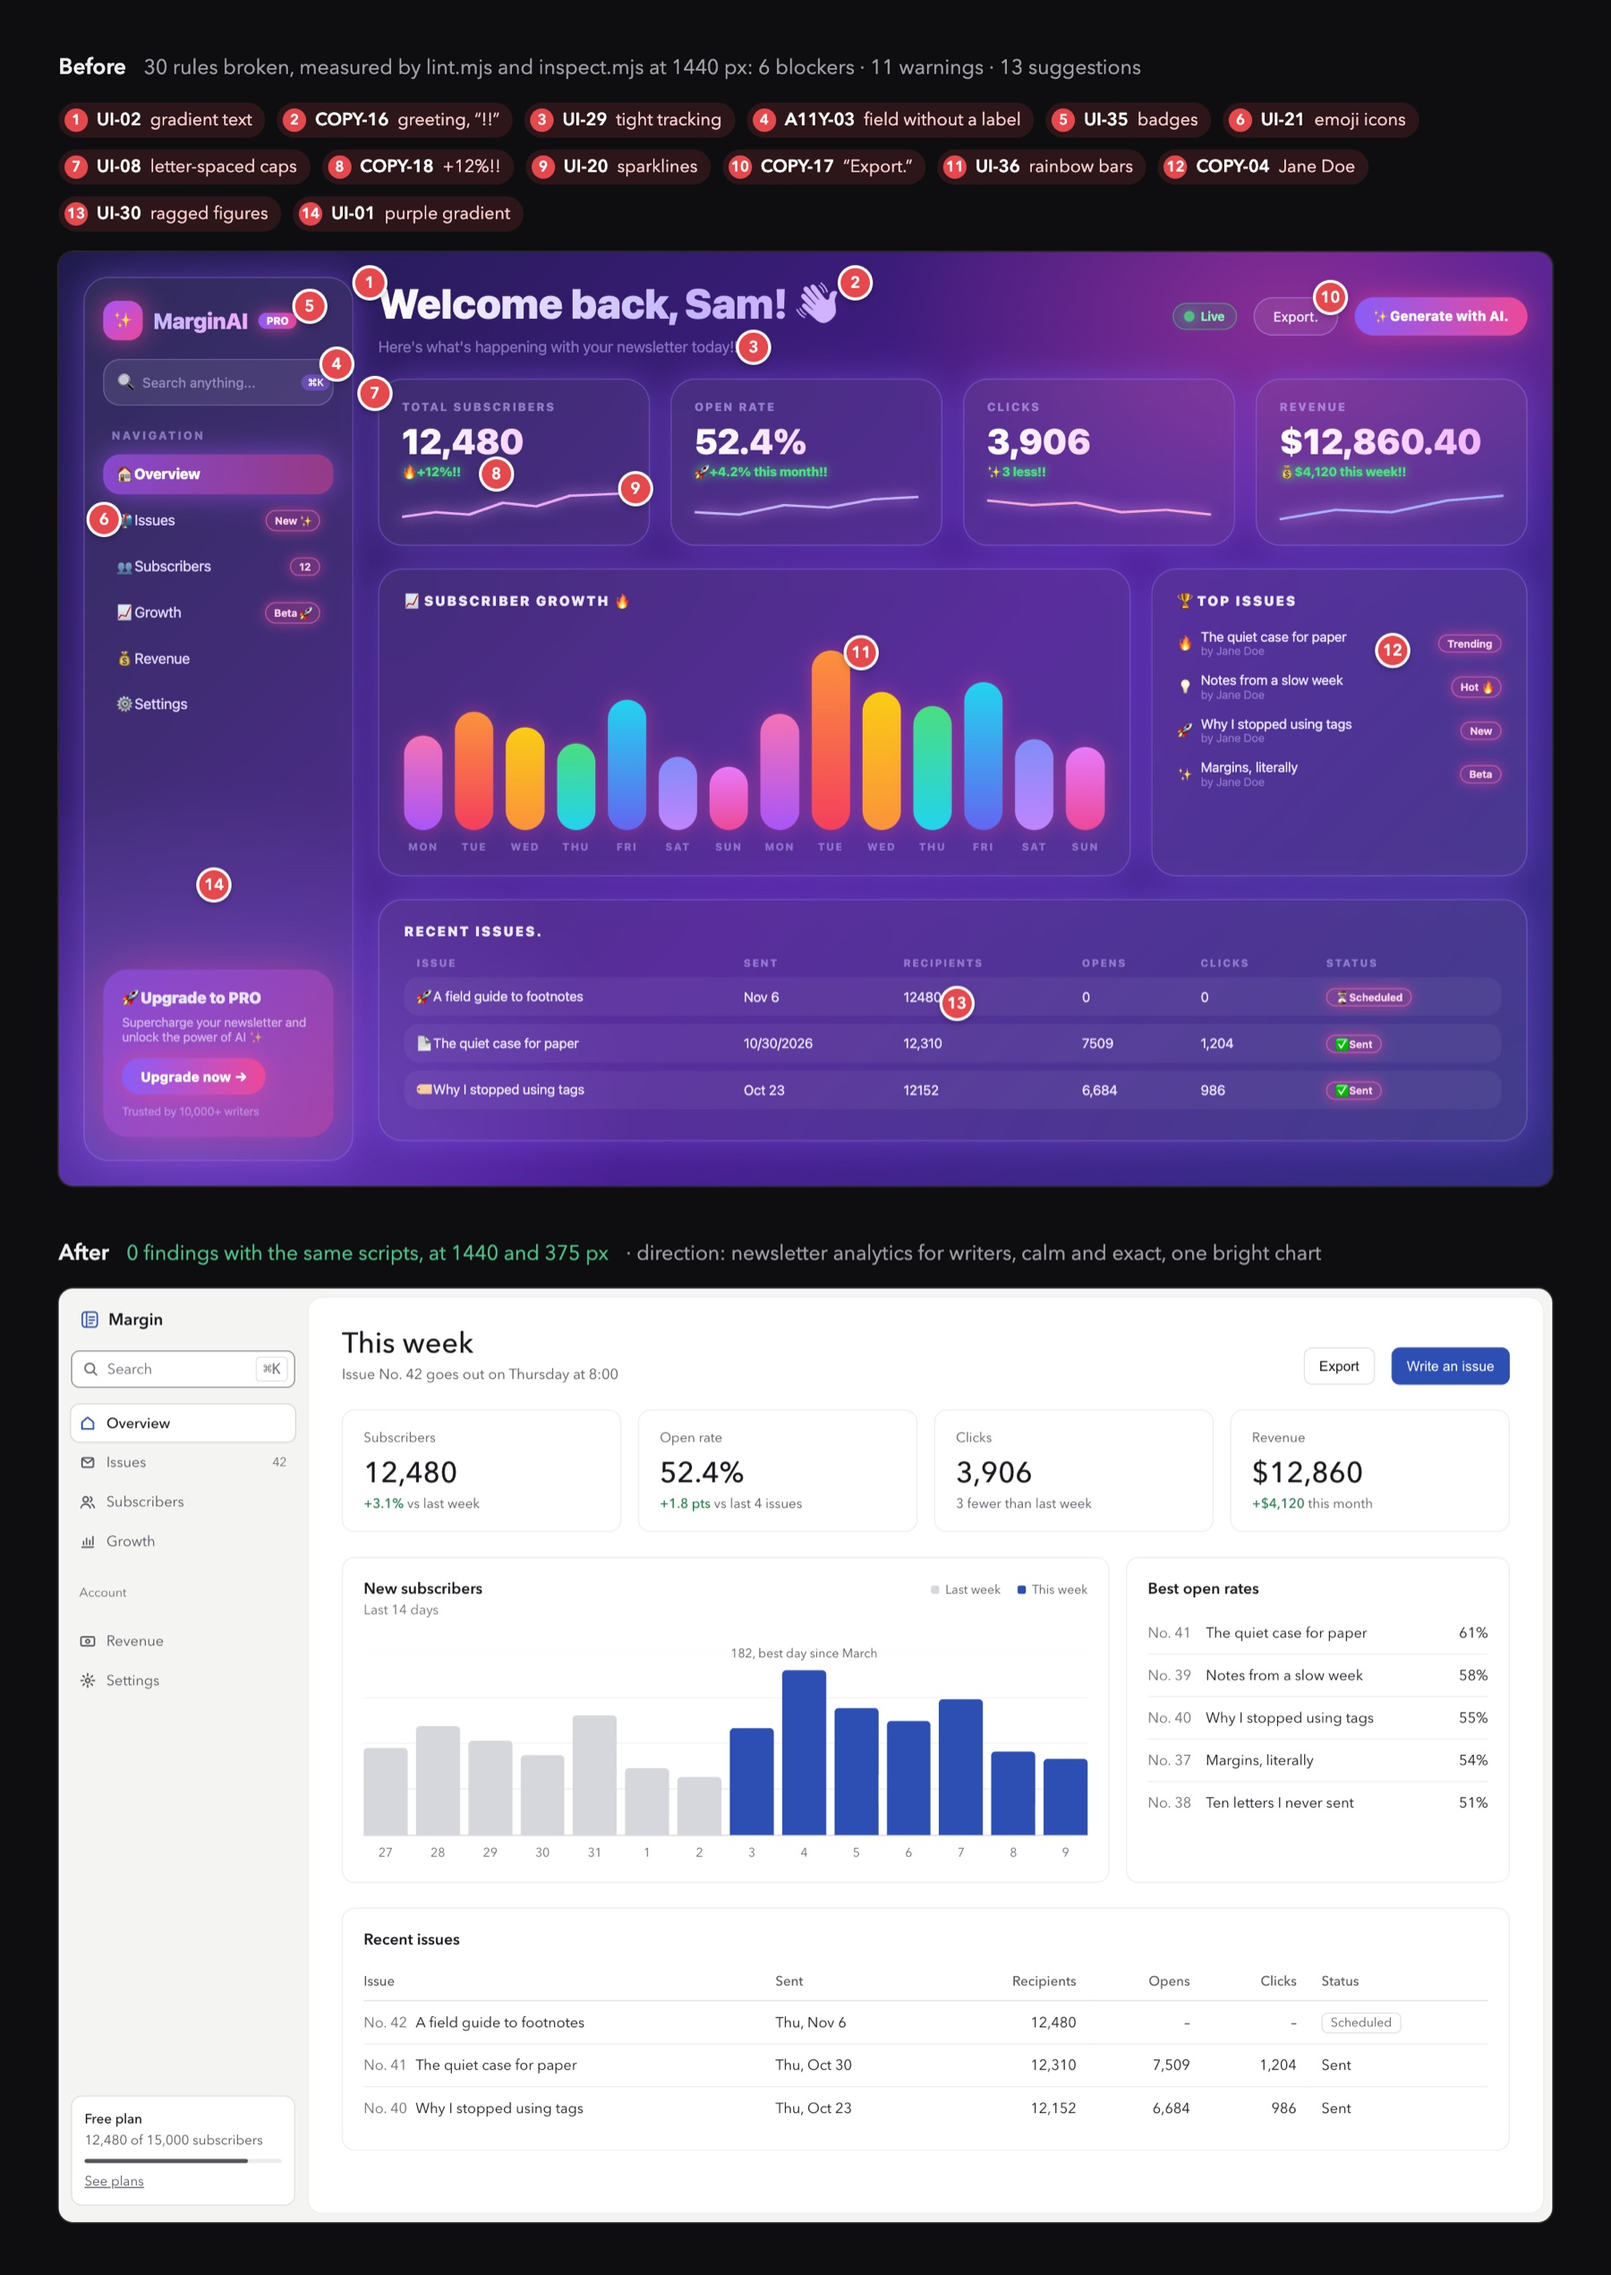
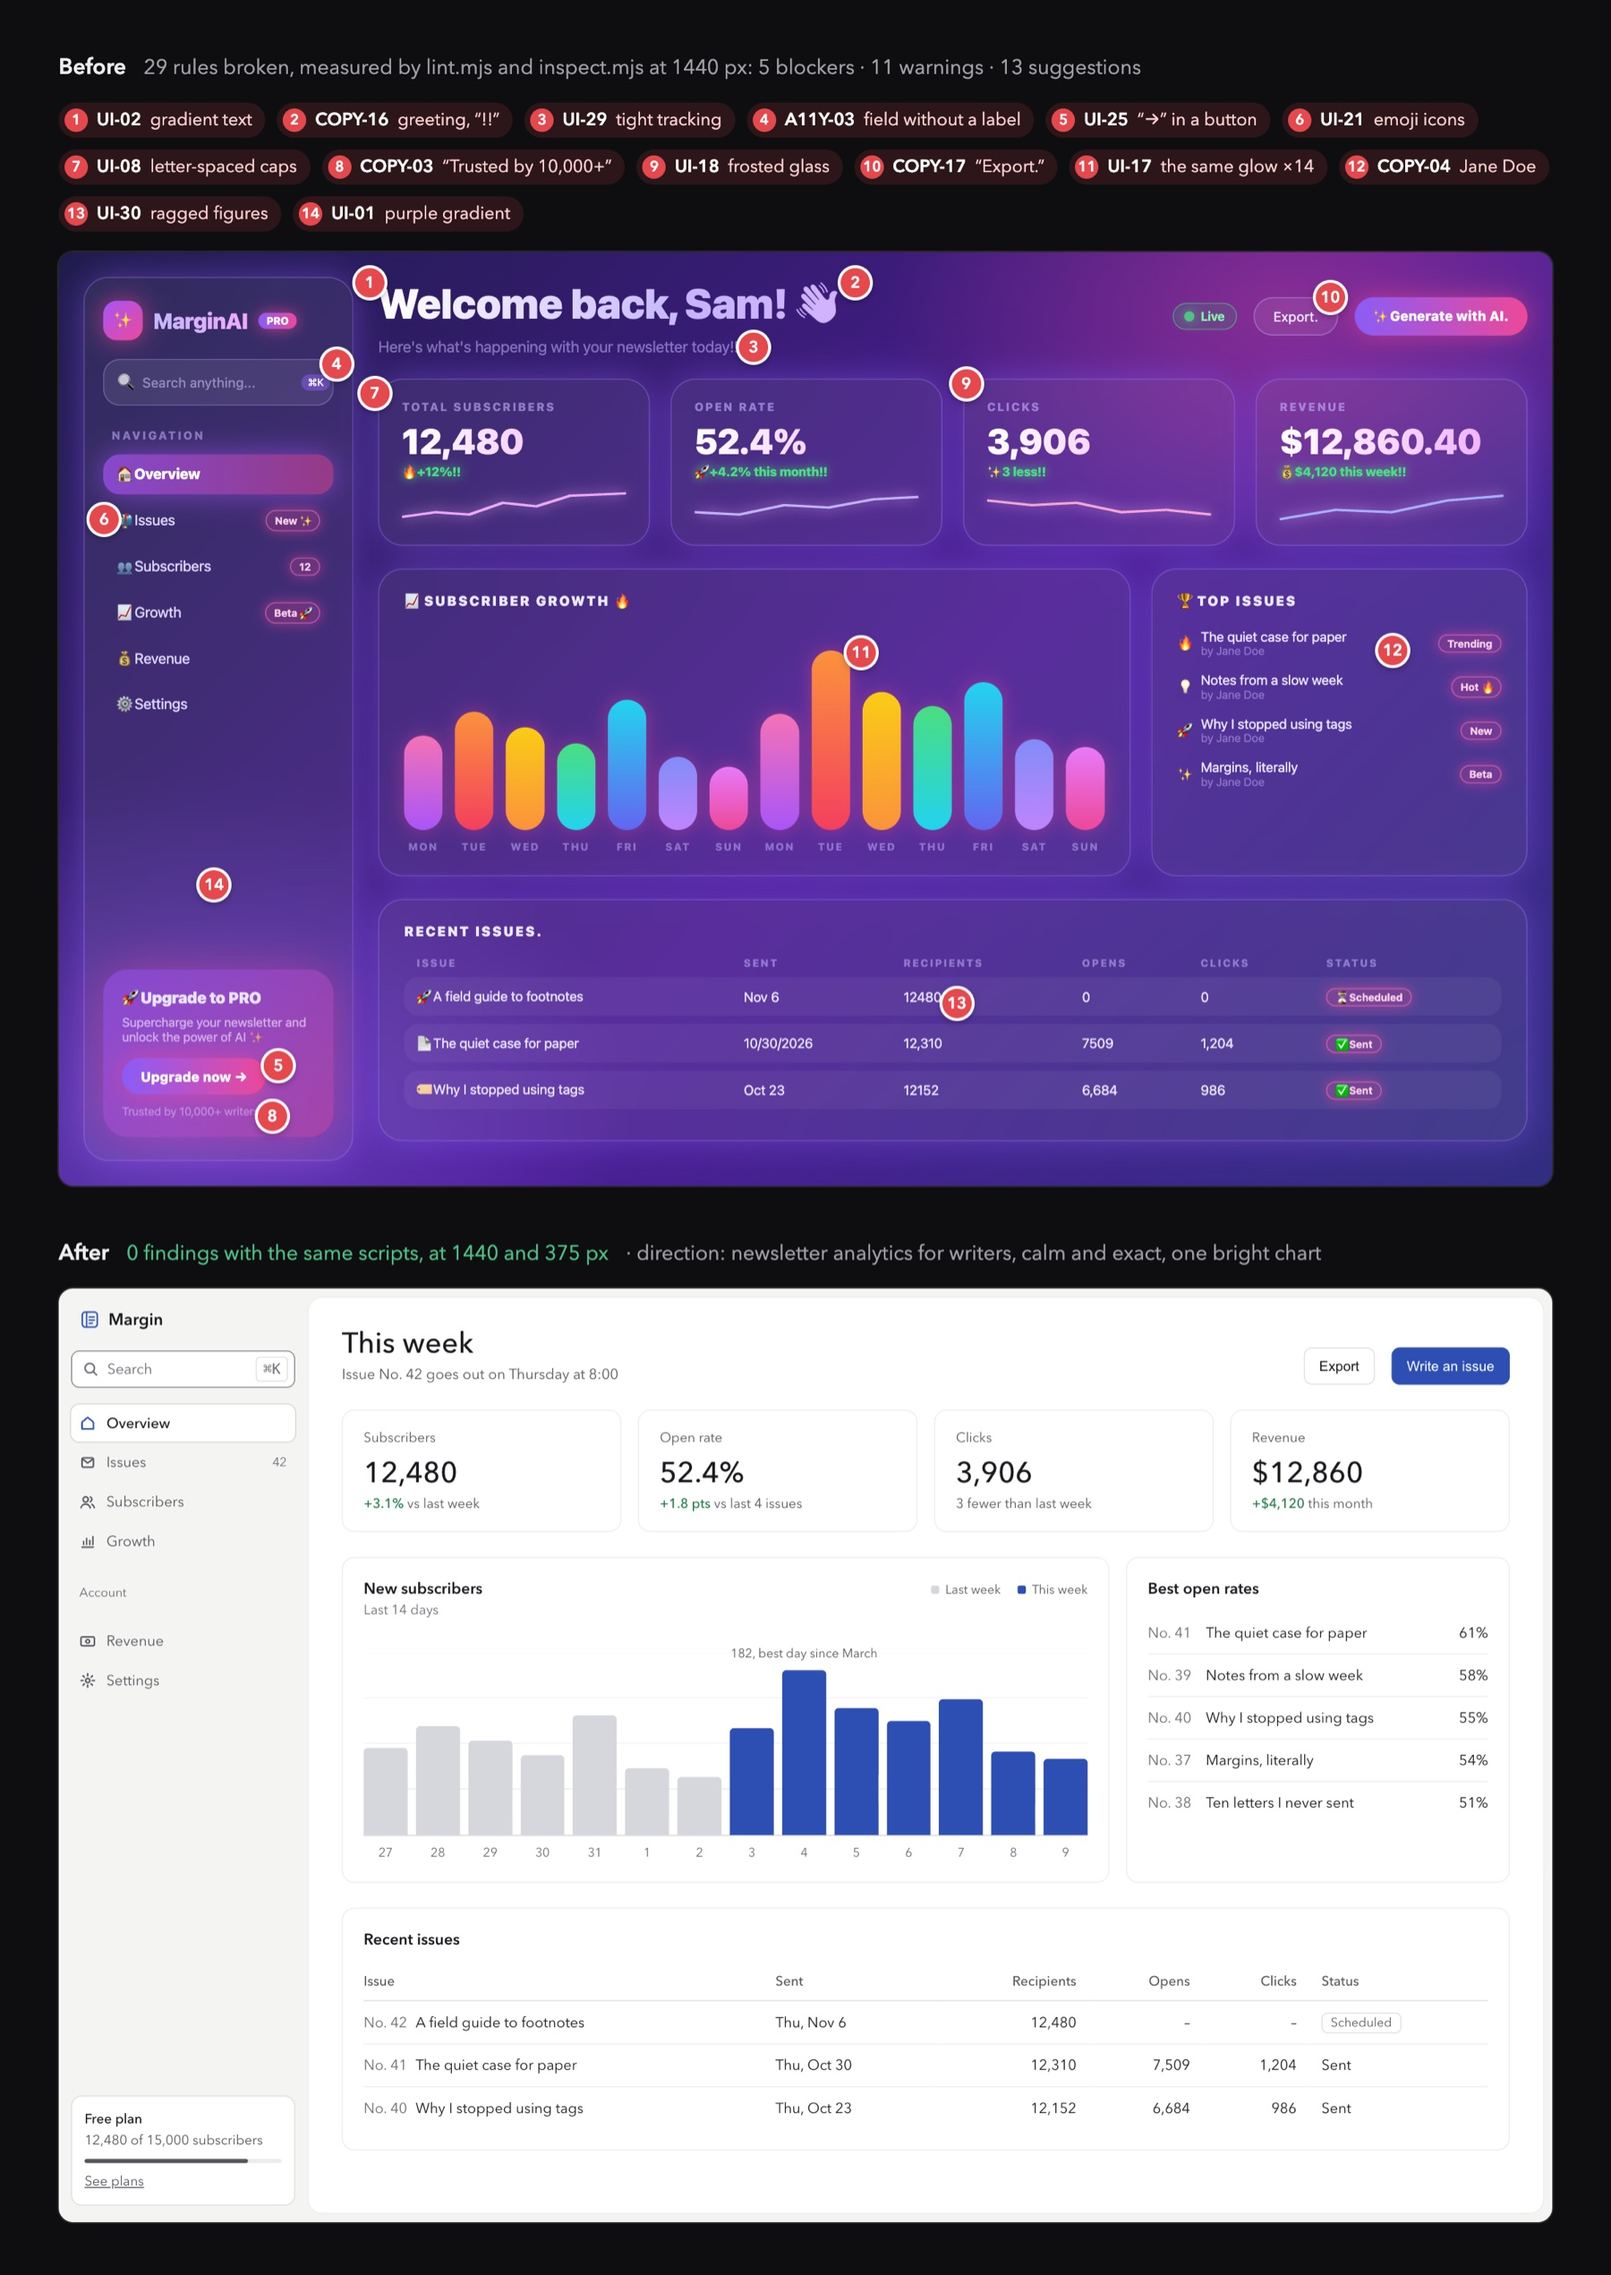
README image: only findings the scripts measured (UI-25, COPY-03, UI-18, UI-17 replace four rules checked by eye), 29 rules counted once (axe html-has-lang is A11Y-05)

diff --git a/docs/hero.html b/docs/hero.html
@@ -28,19 +28,19 @@
 </style>
 </head>
 <body>
-  <p class="row"><b>Before</b><span id="before-count">30 rules broken, measured by lint.mjs and inspect.mjs at 1440 px: 6 blockers · 11 warnings · 13 suggestions</span></p>
+  <p class="row"><b>Before</b><span id="before-count">29 rules broken, measured by lint.mjs and inspect.mjs at 1440 px: 5 blockers · 11 warnings · 13 suggestions</span></p>
   <ol class="legend">
     <li><i>1</i><b>UI-02</b> gradient text</li>
     <li><i>2</i><b>COPY-16</b> greeting, “!!”</li>
     <li><i>3</i><b>UI-29</b> tight tracking</li>
     <li><i>4</i><b>A11Y-03</b> field without a label</li>
-    <li><i>5</i><b>UI-35</b> badges</li>
+    <li><i>5</i><b>UI-25</b> “→” in a button</li>
     <li><i>6</i><b>UI-21</b> emoji icons</li>
     <li><i>7</i><b>UI-08</b> letter-spaced caps</li>
-    <li><i>8</i><b>COPY-18</b> +12%!!</li>
-    <li><i>9</i><b>UI-20</b> sparklines</li>
+    <li><i>8</i><b>COPY-03</b> “Trusted by 10,000+”</li>
+    <li><i>9</i><b>UI-18</b> frosted glass</li>
     <li><i>10</i><b>COPY-17</b> “Export.”</li>
-    <li><i>11</i><b>UI-36</b> rainbow bars</li>
+    <li><i>11</i><b>UI-17</b> the same glow ×14</li>
     <li><i>12</i><b>COPY-04</b> Jane Doe</li>
     <li><i>13</i><b>UI-30</b> ragged figures</li>
     <li><i>14</i><b>UI-01</b> purple gradient</li>
@@ -51,11 +51,11 @@
     <span class="m" style="left: calc(768px * 0.70833); top: calc(30px * 0.70833)">2</span>
     <span class="m" style="left: calc(670px * 0.70833); top: calc(92px * 0.70833)">3</span>
     <span class="m" style="left: calc(268px * 0.70833); top: calc(108px * 0.70833)">4</span>
-    <span class="m" style="left: calc(242px * 0.70833); top: calc(52px * 0.70833)">5</span>
+    <span class="m" style="left: calc(212px * 0.70833); top: calc(784px * 0.70833)">5</span>
     <span class="m" style="left: calc(44px * 0.70833); top: calc(258px * 0.70833)">6</span>
     <span class="m" style="left: calc(305px * 0.70833); top: calc(136px * 0.70833)">7</span>
-    <span class="m" style="left: calc(422px * 0.70833); top: calc(214px * 0.70833)">8</span>
-    <span class="m" style="left: calc(556px * 0.70833); top: calc(228px * 0.70833)">9</span>
+    <span class="m" style="left: calc(206px * 0.70833); top: calc(833px * 0.70833)">8</span>
+    <span class="m" style="left: calc(875px * 0.70833); top: calc(127px * 0.70833)">9</span>
     <span class="m" style="left: calc(1226px * 0.70833); top: calc(44px * 0.70833)">10</span>
     <span class="m" style="left: calc(774px * 0.70833); top: calc(386px * 0.70833)">11</span>
     <span class="m" style="left: calc(1286px * 0.70833); top: calc(384px * 0.70833)">12</span>
